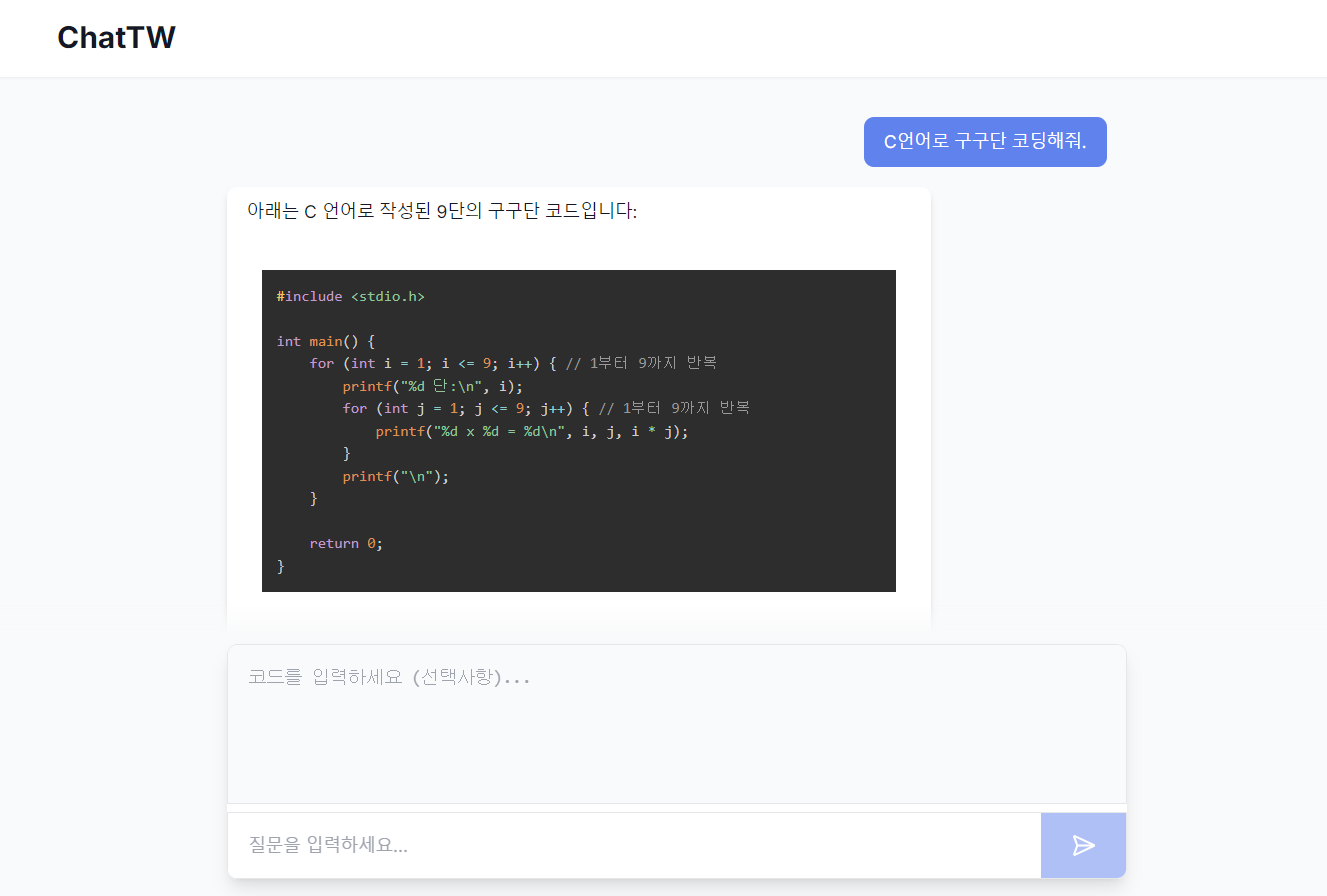
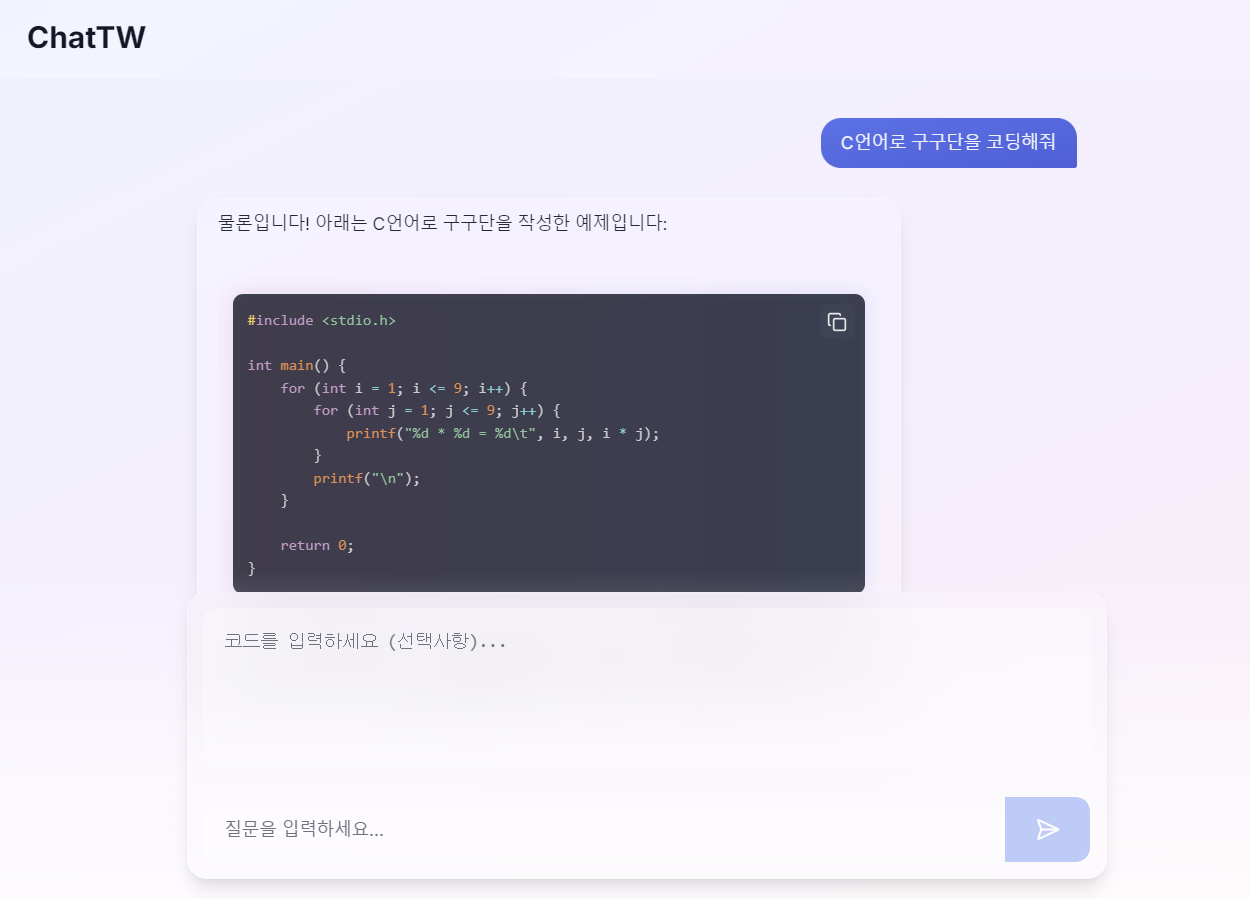
ADD Web Design Update

diff --git a/web/components/chat/chat-message.tsx b/web/components/chat/chat-message.tsx
@@ -23,18 +23,18 @@ export function ChatMessage({ message }: ChatMessageProps) {
   };
 
   return (
-    <div className={`flex ${message.role === 'user' ? 'justify-end' : 'justify-start'} mb-4`}>
+    <div className={`flex ${message.role === 'user' ? 'justify-end' : 'justify-start'} mb-6 group`}>
       <div
-        className={`rounded-lg px-4 py-2 max-w-[80%] ${
-          message.role === 'user'
-            ? 'bg-blue-500 text-white'
-            : 'bg-white text-gray-900 shadow-md'
-        }`}
+        className={`relative rounded-2xl px-4 py-2 max-w-[80%] transition-all duration-300
+          ${message.role === 'user'
+            ? 'bg-gradient-to-br from-blue-600/90 to-blue-700/90 text-white backdrop-blur-md rounded-br-sm'
+            : 'bg-white/20 text-gray-900 backdrop-blur-md rounded-bl-sm border border-white/20'
+          } hover:shadow-lg`}
       >
         <div className={`prose prose-sm max-w-none ${
           message.role === 'user' 
-            ? 'prose-invert prose-p:text-white prose-code:text-white prose-headings:text-white prose-strong:text-white' 
-            : 'prose-headings:text-gray-900 prose-p:text-gray-900 prose-code:text-gray-900'
+            ? 'prose-invert prose-p:text-white/90 prose-code:text-white/90 prose-headings:text-white/90 prose-strong:text-white/90' 
+            : 'prose-headings:text-gray-900 prose-p:text-gray-800 prose-code:text-gray-800'
         }`}>
           <ReactMarkdown
             remarkPlugins={[remarkGfm]}
@@ -43,29 +43,33 @@ export function ChatMessage({ message }: ChatMessageProps) {
               code({ node, inline, className, children, ...props }: any) {
                 const match = /language-(\w+)/.exec(className || '')
                 return !inline && match ? (
-                  <div className="relative group">
-                    <SyntaxHighlighter
-                      style={tomorrow}
-                      language={match[1]}
-                      PreTag="div"
-                      {...props}
-                    >
-                      {String(children).replace(/\n$/, '')}
-                    </SyntaxHighlighter>
-                    <button
-                      onClick={() => handleCopy(String(children))}
-                      className="absolute top-2 right-2 p-1.5 rounded-md bg-gray-800/70 hover:bg-gray-800/90 transition-all duration-200"
-                      aria-label={copyStatus === 'copied' ? '복사됨' : '코드 복사'}
-                    >
-                      {copyStatus === 'copied' ? (
-                        <Check className="w-4 h-4 text-emerald-400" />
-                      ) : (
-                        <Copy className="w-4 h-4 text-gray-200" />
-                      )}
-                    </button>
+                  <div className="relative group/code mt-4">
+                    <div className="absolute -inset-0.5 bg-gradient-to-r from-pink-500/20 to-blue-500/20 rounded-lg blur opacity-75 group-hover/code:opacity-100 transition duration-500"></div>
+                    <div className="relative">
+                      <SyntaxHighlighter
+                        style={tomorrow}
+                        language={match[1]}
+                        PreTag="div"
+                        className="rounded-lg !bg-gray-900/80 !backdrop-blur-sm"
+                        {...props}
+                      >
+                        {String(children).replace(/\n$/, '')}
+                      </SyntaxHighlighter>
+                      <button
+                        onClick={() => handleCopy(String(children))}
+                        className="absolute top-2 right-2 p-1.5 rounded-md bg-white/10 hover:bg-white/20 backdrop-blur-sm transition-all duration-200"
+                        aria-label={copyStatus === 'copied' ? '복사됨' : '코드 복사'}
+                      >
+                        {copyStatus === 'copied' ? (
+                          <Check className="w-4 h-4 text-emerald-400" />
+                        ) : (
+                          <Copy className="w-4 h-4 text-gray-200" />
+                        )}
+                      </button>
+                    </div>
                   </div>
                 ) : (
-                  <code className={className} {...props}>
+                  <code className={`${className} px-1.5 py-0.5 rounded-md bg-black/10 backdrop-blur-sm font-mono text-sm`} {...props}>
                     {children}
                   </code>
                 )
@@ -76,24 +80,28 @@ export function ChatMessage({ message }: ChatMessageProps) {
           </ReactMarkdown>
         </div>
         {message.code && !message.content.includes(message.code) && (
-          <div className="mt-2 rounded-lg overflow-hidden relative group">
-            <SyntaxHighlighter
-              language="javascript"
-              style={tomorrow}
-            >
-              {message.code}
-            </SyntaxHighlighter>
-            <button
-              onClick={() => handleCopy(message.code!)}
-              className="absolute top-2 right-2 p-1.5 rounded-md bg-gray-800/70 hover:bg-gray-800/90 transition-all duration-200"
-              aria-label={copyStatus === 'copied' ? '복사됨' : '코드 복사'}
-            >
-              {copyStatus === 'copied' ? (
-                <Check className="w-4 h-4 text-emerald-400" />
-              ) : (
-                <Copy className="w-4 h-4 text-gray-200" />
-              )}
-            </button>
+          <div className="relative group/code mt-4">
+            <div className="absolute -inset-0.5 bg-gradient-to-r from-pink-500/20 to-blue-500/20 rounded-lg blur opacity-75 group-hover/code:opacity-100 transition duration-500"></div>
+            <div className="relative">
+              <SyntaxHighlighter
+                language="javascript"
+                style={tomorrow}
+                className="rounded-lg !bg-gray-900/80 !backdrop-blur-sm"
+              >
+                {message.code}
+              </SyntaxHighlighter>
+              <button
+                onClick={() => handleCopy(message.code!)}
+                className="absolute top-2 right-2 p-1.5 rounded-md bg-white/10 hover:bg-white/20 backdrop-blur-sm transition-all duration-200"
+                aria-label={copyStatus === 'copied' ? '복사됨' : '코드 복사'}
+              >
+                {copyStatus === 'copied' ? (
+                  <Check className="w-4 h-4 text-emerald-400" />
+                ) : (
+                  <Copy className="w-4 h-4 text-gray-200" />
+                )}
+              </button>
+            </div>
           </div>
         )}
       </div>

diff --git a/web/components/chat/chat-input.tsx b/web/components/chat/chat-input.tsx
@@ -22,27 +22,27 @@ export default function ChatInput({ onSendMessage, isLoading }: ChatInputProps) 
   }
 
   return (
-    <form onSubmit={handleSubmit} className="flex flex-col w-full">
+    <form onSubmit={handleSubmit} className="flex flex-col w-full p-3">
       <div className="relative">
         <textarea
           placeholder="코드를 입력하세요 (선택사항)..."
           value={code}
           onChange={(e) => setCode(e.target.value)}
-          className="w-full h-32 p-4 text-sm font-mono bg-gray-50 rounded-t-lg rounded-b-none border border-gray-200 focus:border-blue-500 focus:ring-2 focus:ring-blue-500 resize-none transition-all duration-200 ease-in-out"
+          className="w-full h-32 p-4 text-sm font-mono bg-white/10 backdrop-blur-sm rounded-xl border border-white/20 focus:border-blue-500/50 focus:ring-2 focus:ring-blue-500/30 resize-none transition-all duration-200 ease-in-out text-gray-800 placeholder-gray-500"
         />
       </div>
-      <div className="flex rounded-b-lg overflow-hidden border border-gray-200">
+      <div className="flex mt-4 rounded-xl overflow-hidden bg-white/10 backdrop-blur-sm border border-white/20">
         <input
           type="text"
           placeholder="질문을 입력하세요..."
           value={prompt}
           onChange={(e) => setPrompt(e.target.value)}
-          className="flex-1 p-4 text-sm bg-white border-none focus:outline-none focus:ring-1 focus:ring-gray-200"
+          className="flex-1 p-4 text-sm bg-transparent border-none focus:outline-none focus:ring-0 text-gray-800 placeholder-gray-500"
         />
         <button
           type="submit"
           disabled={isLoading || !prompt.trim()}
-          className="px-6 py-4 font-medium text-white bg-blue-500 hover:bg-blue-600 focus:bg-blue-600 focus:outline-none disabled:opacity-50 disabled:cursor-not-allowed transition-colors duration-200 ease-in-out"
+          className="px-6 py-4 font-medium text-white bg-blue-500/80 hover:bg-blue-600/80 focus:bg-blue-600/80 focus:outline-none disabled:opacity-50 disabled:cursor-not-allowed transition-colors duration-200 ease-in-out backdrop-blur-sm"
         >
           <SendHorizontal className="w-5 h-5" />
         </button>

diff --git a/web/app/page.tsx b/web/app/page.tsx
@@ -54,25 +54,25 @@ export default function Home() {
   }
 
   return (
-    <main className="flex flex-col h-screen bg-gray-50">
+    <main className="flex flex-col h-screen">
       {/* 헤더 영역 */}
-      <header className="bg-white shadow-sm">
+      <header className="bg-white/20 backdrop-blur-md border-b border-white/10 sticky top-0 z-10">
         <div className="max-w-5xl mx-auto py-4 px-4">
           <h1 className="text-2xl font-bold text-gray-900">ChatTW</h1>
         </div>
       </header>
 
       {/* 대화창 영역 */}
-      <div className="flex-1 overflow-y-auto pb-[200px] transition-all duration-300 ease-in-out">
-        <div className="max-w-3xl mx-auto py-8 px-4">
+      <div className="flex-1 overflow-y-auto pb-32">
+        <div className="max-w-3xl mx-auto py-8 px-4 mb-32">
           <ChatMessages messages={messages} isLoading={isLoading} />
         </div>
       </div>
 
       {/* 입력창 영역 */}
-      <div className="fixed bottom-0 left-0 right-0 bg-gradient-to-t from-gray-50 from-50% via-gray-50 via-90% to-transparent">
-        <div className="max-w-3xl mx-auto p-6 pt-8">
-          <div className="bg-white rounded-lg shadow-lg overflow-hidden">
+      <div className="fixed bottom-0 left-0 right-0 bg-gradient-to-t from-white/80 via-white/50 to-transparent pb-6 pt-4">
+        <div className="max-w-3xl mx-auto px-4">
+          <div className="bg-white/20 backdrop-blur-xl rounded-2xl shadow-lg border border-white/20">
             <ChatInput onSendMessage={handleSendMessage} isLoading={isLoading} />
           </div>
         </div>

diff --git a/web/components/chat/chat-messages.tsx b/web/components/chat/chat-messages.tsx
@@ -1,14 +1,15 @@
-import { ChatMessage } from './chat-message'
-import { Message } from '@/lib/types'
+import React from 'react';
+import { ChatMessage } from './chat-message';
+import { Message } from '@/lib/types';
 
 interface ChatMessagesProps {
-  messages: Message[]
-  isLoading: boolean
+  messages: Message[];
+  isLoading: boolean;
 }
 
 export function ChatMessages({ messages, isLoading }: ChatMessagesProps) {
   return (
-    <div className="space-y-4 px-4">
+    <div className="space-y-6 px-4">
       {messages.map((message, index) => (
         <ChatMessage key={index} message={message} />
       ))}
@@ -22,6 +23,6 @@ export function ChatMessages({ messages, isLoading }: ChatMessagesProps) {
         </div>
       )}
     </div>
-  )
+  );
 }
 

diff --git a/web/app/layout.tsx b/web/app/layout.tsx
@@ -16,8 +16,9 @@ export default function RootLayout({
 }) {
   return (
     <html lang="ko">
-      <body className={`${inter.className} bg-gray-50 text-gray-900`}>
-        <div className="flex flex-col min-h-screen">
+      <body className={inter.className}>
+        <div className="fixed inset-0 bg-gradient-to-br from-blue-500 via-purple-500 to-pink-500 opacity-10" />
+        <div className="relative min-h-screen">
           {children}
         </div>
       </body>

diff --git a/README.md b/README.md
@@ -4,6 +4,7 @@
 
 사내 개발자들이 프로그래밍 작업 중 겪는 문제를 신속하게 해결하고 생산성을 향상시키기 위한 AI 기반 코딩 챗봇을 개발한다. 이 챗봇은 코드 오류 수정, 코드 생성 등 프로그래밍 관련 질문에 대한 답변을 제공하며, 웹 인터페이스를 통해 사용자가 쉽고 직관적으로 접근할 수 있도록 한다. 또한 사내 인트라넷을 통해서만 접속하여 사용할 수 있어 보안성을 높였다.
 ## 📰 News
+- [2024.12.01] 🎨웹 UI/UX 개선
 - [2024.11.29] 🐞웹 기능 추가 및 버그 수정
 - [2024.11.28] 🎨웹 UI/UX 개선 & Logo 디자인
 - [2024.11.26] ✅웹 인터페이스 완료 & v1.0.0 - 기본 기능 구현 완료
